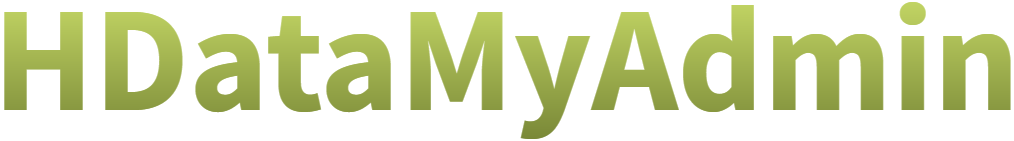
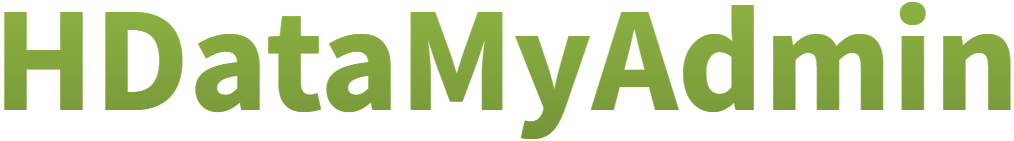
better colors

Changed region(s): [[0.0, 0.0284, 1.0, 0.5957], [0.8866, 0.0, 0.9172, 0.1702]]

diff --git a/src/static/assets/css/global.css b/src/static/assets/css/global.css
@@ -42,11 +42,11 @@ img {
 }
 
 a {
-	color: #8d9b44;
+	color: rgb(114, 148, 50);
 }
 
 a:hover {
-	color: #a2b150;
+	color: rgb(132, 170, 63);
 }
 
 a.icon span {
@@ -54,11 +54,11 @@ a.icon span {
 	vertical-align: middle;
 }
 
-a.icon.left .material-icons {
+a.icon.left .material-icons, .button.icon.left .material-icons {
 	margin-right: 0.35rem;
 }
 
-a.icon.right .material-icons {
+a.icon.right .material-icons, .button.icon.right .material-icons  {
 	margin-left: 0.35rem;
 }
 
@@ -257,7 +257,7 @@ h2.title {
 	text-align: center;
 	border: 5px solid transparent;
 	border-radius: 50%;
-	border-top: 5px solid #b1c357;
+	border-top: 5px solid rgb(130, 168, 58);
 	border-right: 5px solid transparent;
 	border-bottom: 5px solid transparent;
 	width: 35px;
@@ -300,7 +300,7 @@ h2.title {
 	padding: 0.5rem 1.65rem;
 	background-color: #ffffff;
 	border: 1px solid #bec4ac;
-	color: #b1c357;
+	color: rgb(121, 156, 54);
 	border-radius: 5px;
 	cursor: pointer;
 	transition: all 0.15s;
@@ -314,30 +314,50 @@ h2.title {
 	background-color: #e2e6d6;
 }
 
+.button.small {
+	padding: 0.25rem 1rem;
+}
+
 .button.primary {
-	border-color: #b1c357;
-	background-color: #b1c357;
+	border-color: rgb(121, 156, 54);
+	background-color: rgb(121, 156, 54);
 	color: rgba(255, 255, 255, 0.98);
 }
 
 .button.primary:hover {
-	border-color: #b8cb5d;
-	background-color: #b8cb5d;
+	border-color: rgb(130, 168, 58);
+	background-color: rgb(130, 168, 58);
 }
 
 .button.primary:active {
-	border-color: #78872c;
-	background-color: #78872c;
+	border-color: rgb(102, 131, 47);
+	background-color: rgb(102, 131, 47);
 }
 
 .button.primary:focus {
-	border-color: #a7b757;
-	background-color: #a7b757;
+	border-color: rgb(102, 131, 47);
+	background-color: rgb(102, 131, 47);
+	color: rgba(255, 255, 255, 0.9);
 }
 
 .button:focus {
 	outline: 0;
-	box-shadow: 0 0 0 2px rgba(167, 183, 87, 0.55);
+	box-shadow: 0 0 0 2px rgba(121, 156, 54, 0.55);
+}
+
+.button.icon {
+	display: inline-flex;
+	align-items: center;
+	padding: 0.5rem 1.15rem;
+}
+
+.button.icon .material-icons {
+	font-size: 1.2rem;
+}
+
+.button.icon span {
+	display: inline-block;
+	vertical-align: middle;
 }
 
 /* cards */
@@ -411,8 +431,8 @@ h2.title {
 
 .input:focus {
 	outline: 0;
-	border-color: #a7b757;
-	box-shadow: 0 0 0 2px rgba(167, 183, 87, 0.55);
+	border-color: rgb(121, 156, 54);
+	box-shadow: 0 0 0 2px rgba(121, 156, 54, 0.55);
 }
 
 .input.dsp-b {
@@ -476,7 +496,7 @@ table th {
 	padding-top: 12px;
 	padding-bottom: 12px;
 	text-align: left;
-	background-color: #7d9b44;
+	background-color: rgb(121, 156, 54);
 	color: #fff;
 }
 
